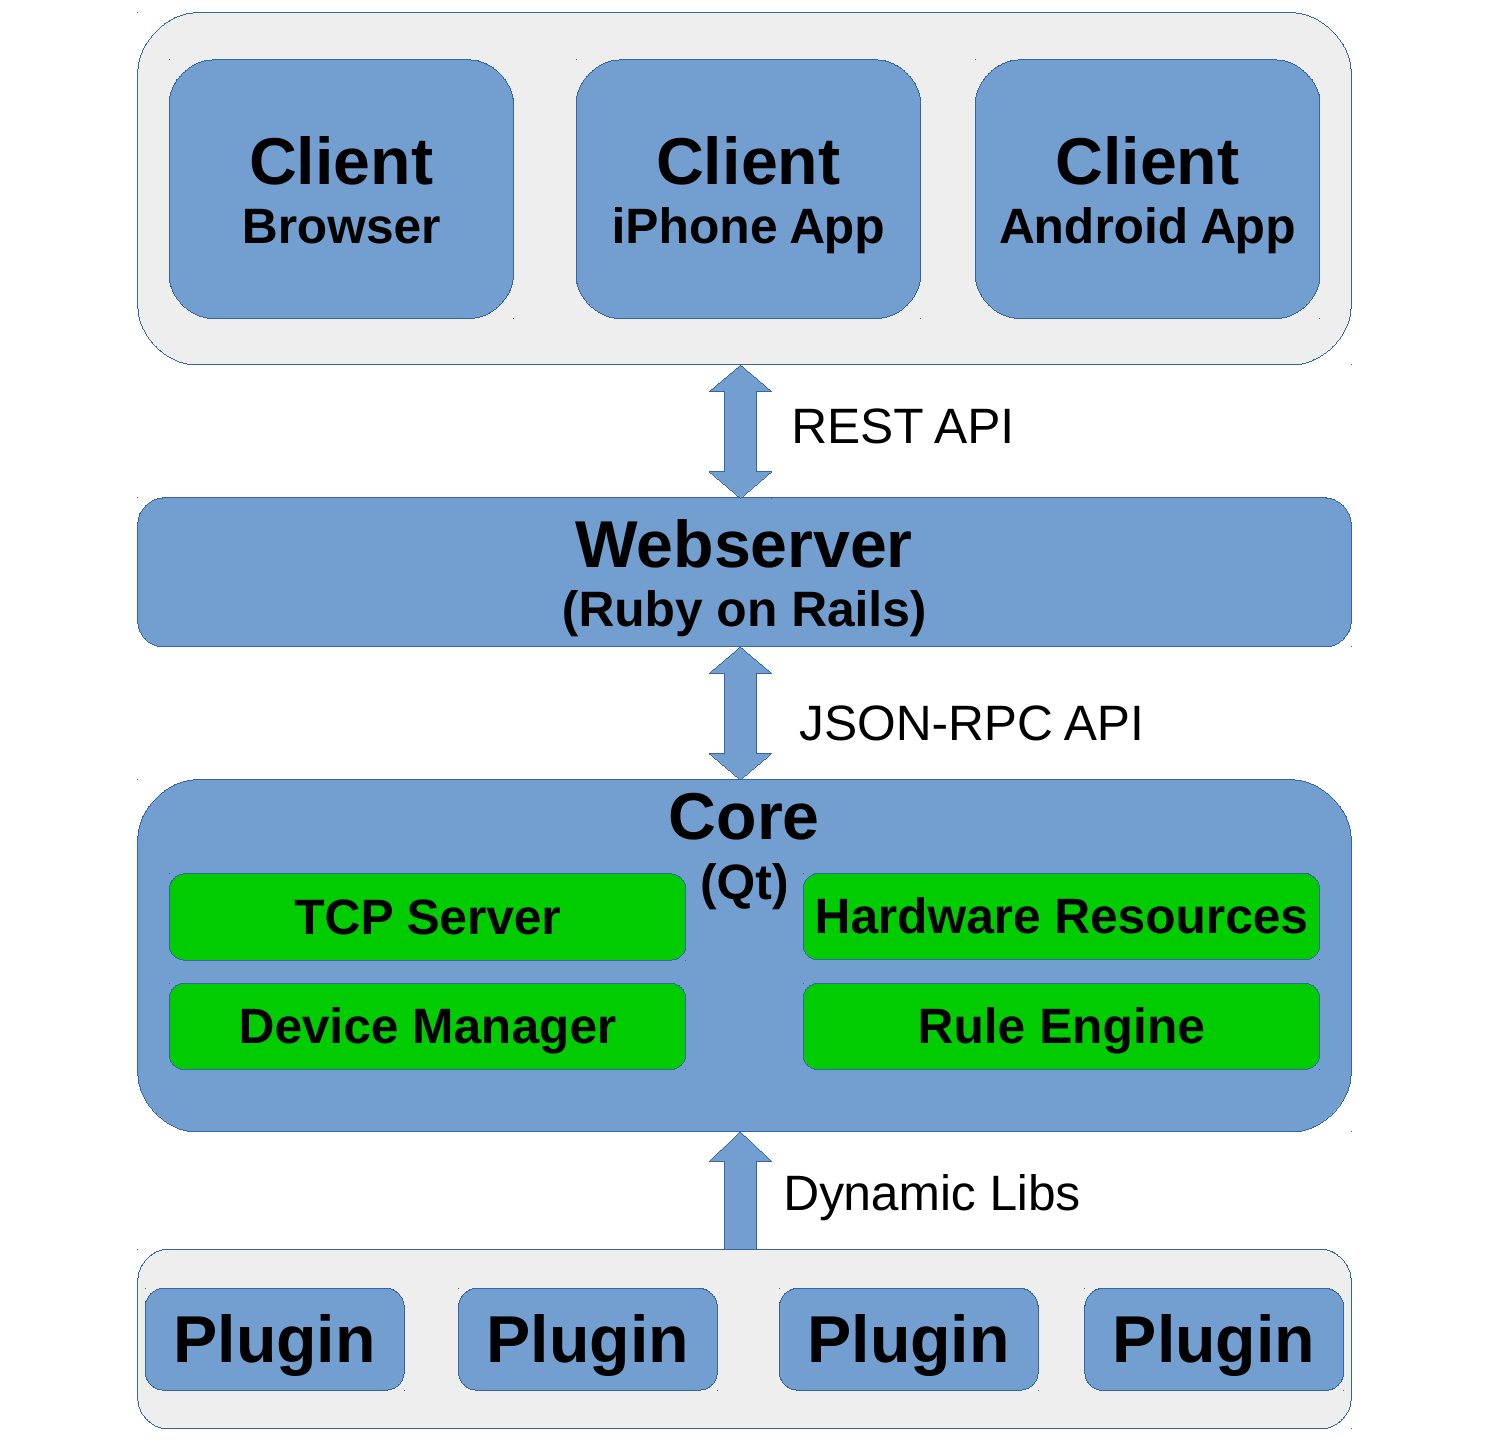
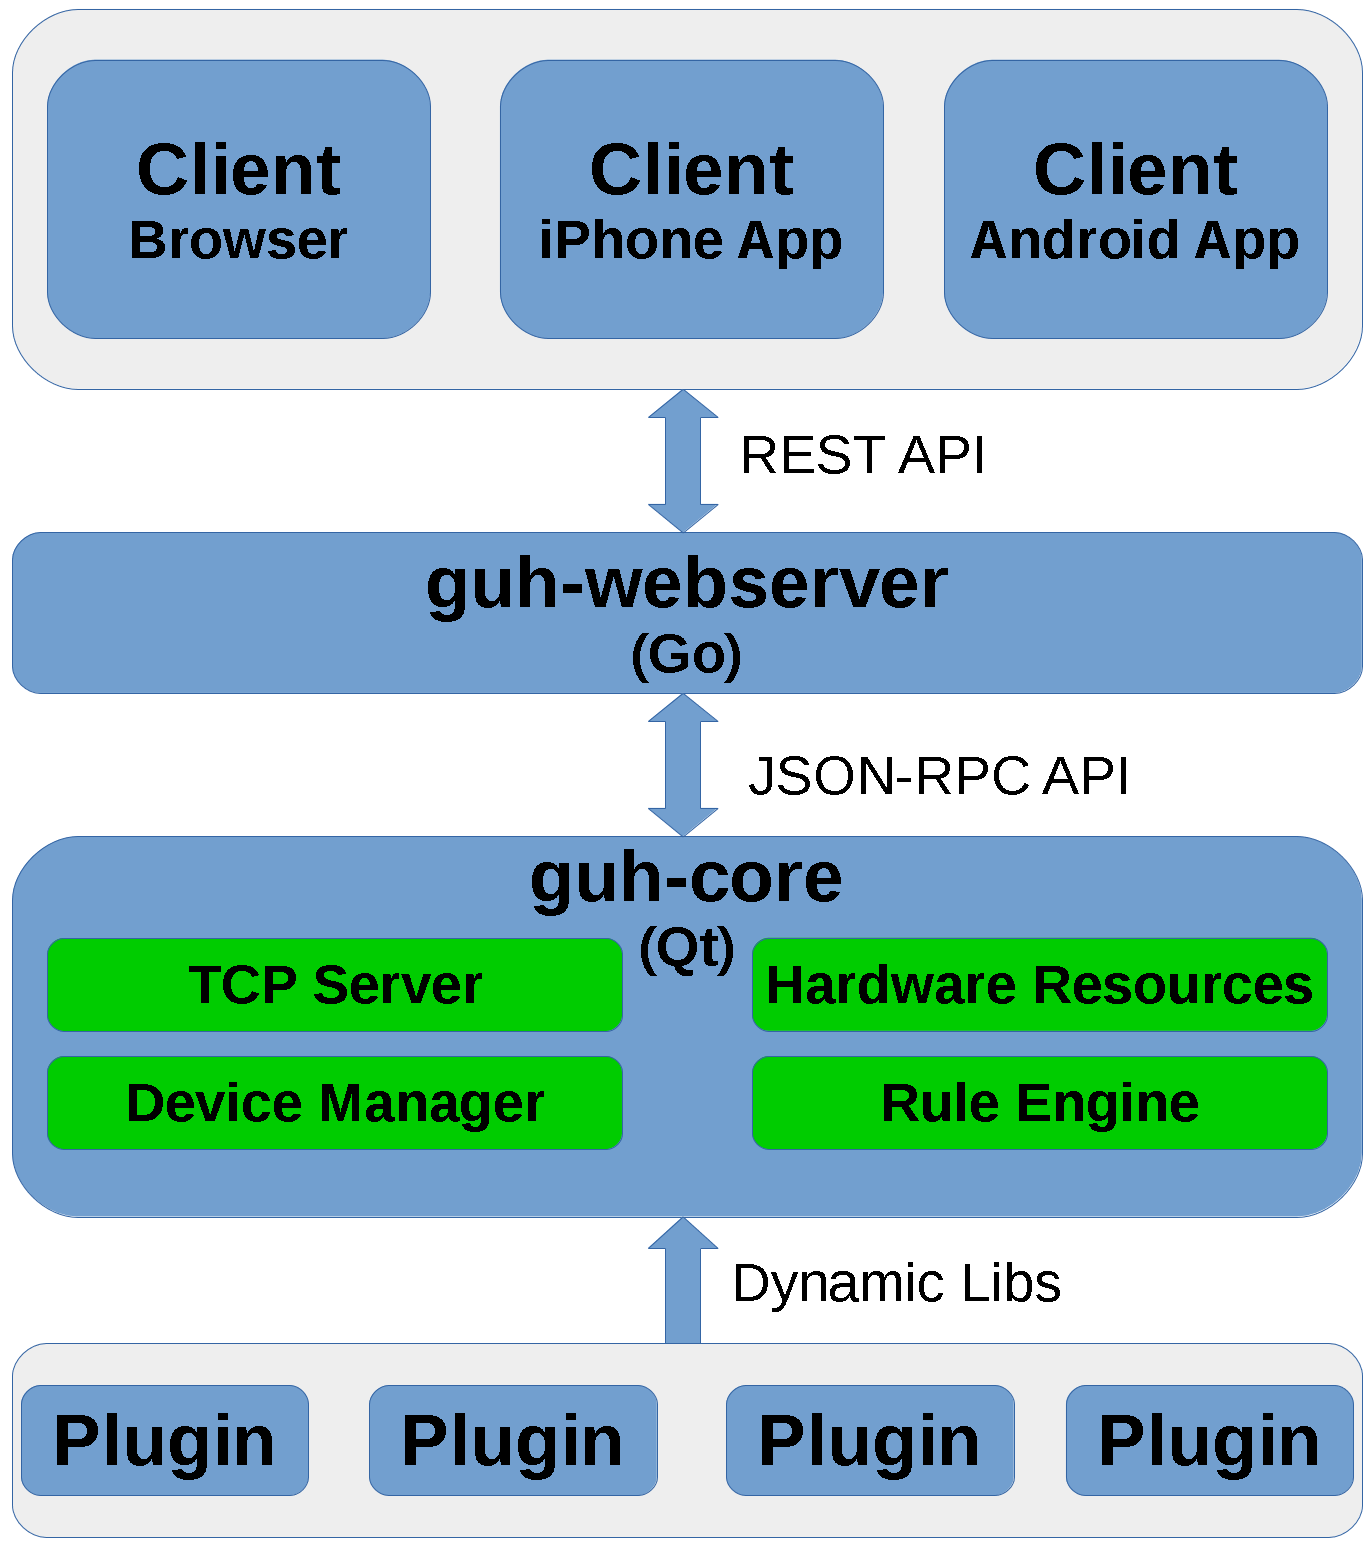
changed to guh-webserver

diff --git a/Structure.md b/Structure.md
@@ -2,11 +2,11 @@
 --------------------------------------------
 The whole system has basically three layers:
 
-1. [*guh* core:](https://github.com/guh/guh) the core is an application written in [Qt](http://qt-project.org/) and contains the whole communication with the hardware, loads the supported devices from the plugins, manages all devices and rules. The core provides a JSON-RCP API to allow clients to communicate with the core.
+1. [*guh*-daemon:](https://github.com/guh/guh) the core is an application written in [Qt](http://qt-project.org/) and contains the whole communication with the hardware, loads the supported devices from the plugins, manages all devices and rules. The core provides a JSON-RCP API to allow clients to communicate with the core.
 
-2. [*guh* rails:](https://github.com/guh/guh_rails) the *guh* rails application is an application written in [Ruby on Rails](http://rubyonrails.org/) and contains a web server which provides a REST API. This application communicates directly with the core and translates the JSON-RPC to the REST API.
+2. [*guh*-webserver:](https://github.com/guh/guh-webserver) the *guh*-webserver is an application written in [Go](http://golang.org/) and contains a web server which provides a REST API. This application communicates directly with the core and translates the JSON-RPC from the core to the REST API.
 
-3. [*guh* angular:](https://github.com/guh/guh_angular) the *guh* angular application is an application written in [AngularJS](https://angularjs.org/) and provides the browser based user interface. The application uses the REST API from the guh rails server and offers the user an easy and beautiful possibility to interact with his home. 
+3. [*guh*-webinterface:](https://github.com/guh/guh-webinterface) the *guh*-webinterface application is an application written in [AngularJS](https://angularjs.org/) and provides the browser based user interface for *guh*. The application uses the REST API from the guh-webserver and offers the user an easy and beautiful possibility to interact with his home. 
 
 In following figure you can see the structure of the whole system:
 

diff --git a/Home.md b/Home.md
@@ -9,6 +9,8 @@
 * **[[Home]]**
     * [[Overview]]
     * [[Structure]]
+    * [[Reporting bugs]]
+    * [[Coding style]]
 
 * **[[Install]]**
     * [[Ubuntu]]

diff --git a/Coding-style.md b/Coding-style.md
@@ -1,0 +1,16 @@
+# Reporting bugs
+--------------------------------------------
+
+> Coming soon...
+
+    
+
+
+
+
+
+
+
+
+
+

diff --git a/Reporting-bugs.md b/Reporting-bugs.md
@@ -1,0 +1,16 @@
+# Reporting bugs
+--------------------------------------------
+
+> Coming soon...
+
+    
+
+
+
+
+
+
+
+
+
+

diff --git a/_Sidebar.md b/_Sidebar.md
@@ -2,6 +2,7 @@
 * [[Overview]]
 * [[Structure]]
 * [[Reporting bugs]]
+* [[Coding style]]
 
 **[[Install]]**
 * [[Ubuntu]]
